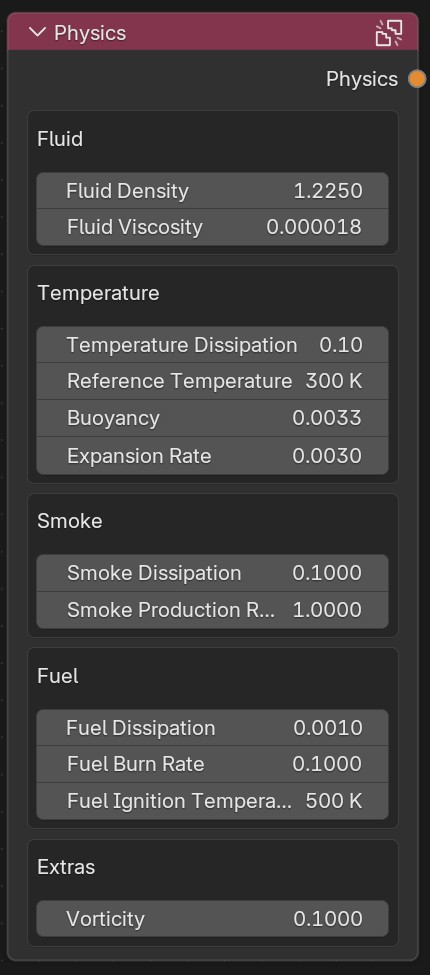
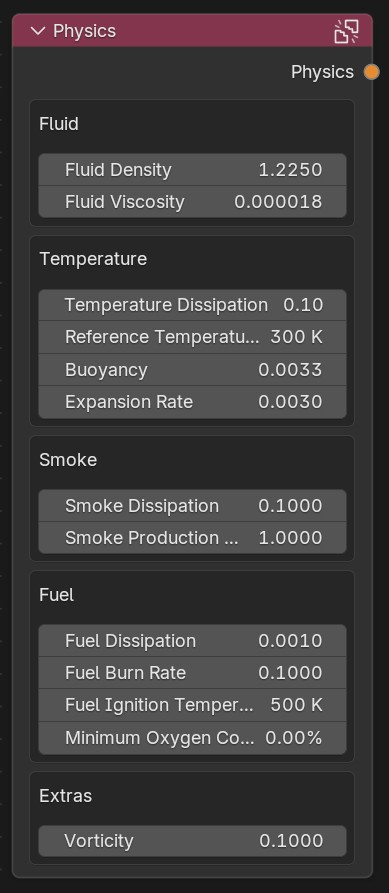
More example files

diff --git a/UI/Nodes/bake_runtime.py b/UI/Nodes/bake_runtime.py
@@ -71,6 +71,7 @@ _STATUS_PROGRESS_PERCENT = 0.0
 _STATUS_PROGRESS_FACTOR = 0.0
 _STATUS_PROGRESS_ETA = ""
 _STATUS_PROGRESS_ETA_PLACEHOLDER = "Remaining: 00:00:00"
+_STATUS_PROGRESS_ETA_DELAY_SECONDS = 2.0
 _ACTIVE_BAKE_OPERATOR = None
 _SOLVER_DIVERGENCE_MESSAGES = (
     "solver divergence",
@@ -321,7 +322,7 @@ class BlenderCFD_OT_bake(bpy.types.Operator):
         if self._bake_started_at is None or percent <= 0.0 or percent >= 100.0:
             return ""
         elapsed_seconds = perf_counter() - self._bake_started_at
-        if elapsed_seconds <= 0.0:
+        if elapsed_seconds < _STATUS_PROGRESS_ETA_DELAY_SECONDS:
             return ""
         remaining_seconds = elapsed_seconds * (100.0 - percent) / percent
         return _format_eta_seconds(remaining_seconds)

diff --git a/UI/Nodes/general.py b/UI/Nodes/general.py
@@ -569,7 +569,7 @@ class BlenderCFDSourceNode(BlenderCFDBaseNode):
 
     fuel: FloatProperty(name="Fuel Concentration", default=0.0, min=0.0, max=100.0, soft_min=0.0, soft_max=100.0, subtype="PERCENTAGE", description="Fuel concentration to spawn in percent", options={"ANIMATABLE"})  # type: ignore
     smoke: FloatProperty(name="Smoke Concentration", default=0.0, min=0.0, max=100.0, soft_min=0.0, soft_max=100.0, subtype="PERCENTAGE", description="Smoke concentration to spawn in percent", options={"ANIMATABLE"})  # type: ignore
-    temperature: FloatProperty(name="Temperature", default=0.0, min=0.0, soft_min=0.0, unit="TEMPERATURE", description="Amount of temperature to spawn", options={"ANIMATABLE"})  # type: ignore
+    temperature: FloatProperty(name="Temperature", default=300.0, min=0.0, soft_min=0.0, unit="TEMPERATURE", description="Amount of temperature to spawn", options={"ANIMATABLE"})  # type: ignore
     velocity_space: EnumProperty(name="Space", items=velocity_space_items, default="WORLD", options=set())  # type: ignore
     velocity: FloatVectorProperty(name="Velocity", size=3, default=(0.0, 0.0, 0.0), subtype="VELOCITY", description="Source velocity", options={"ANIMATABLE"})  # type: ignore
 